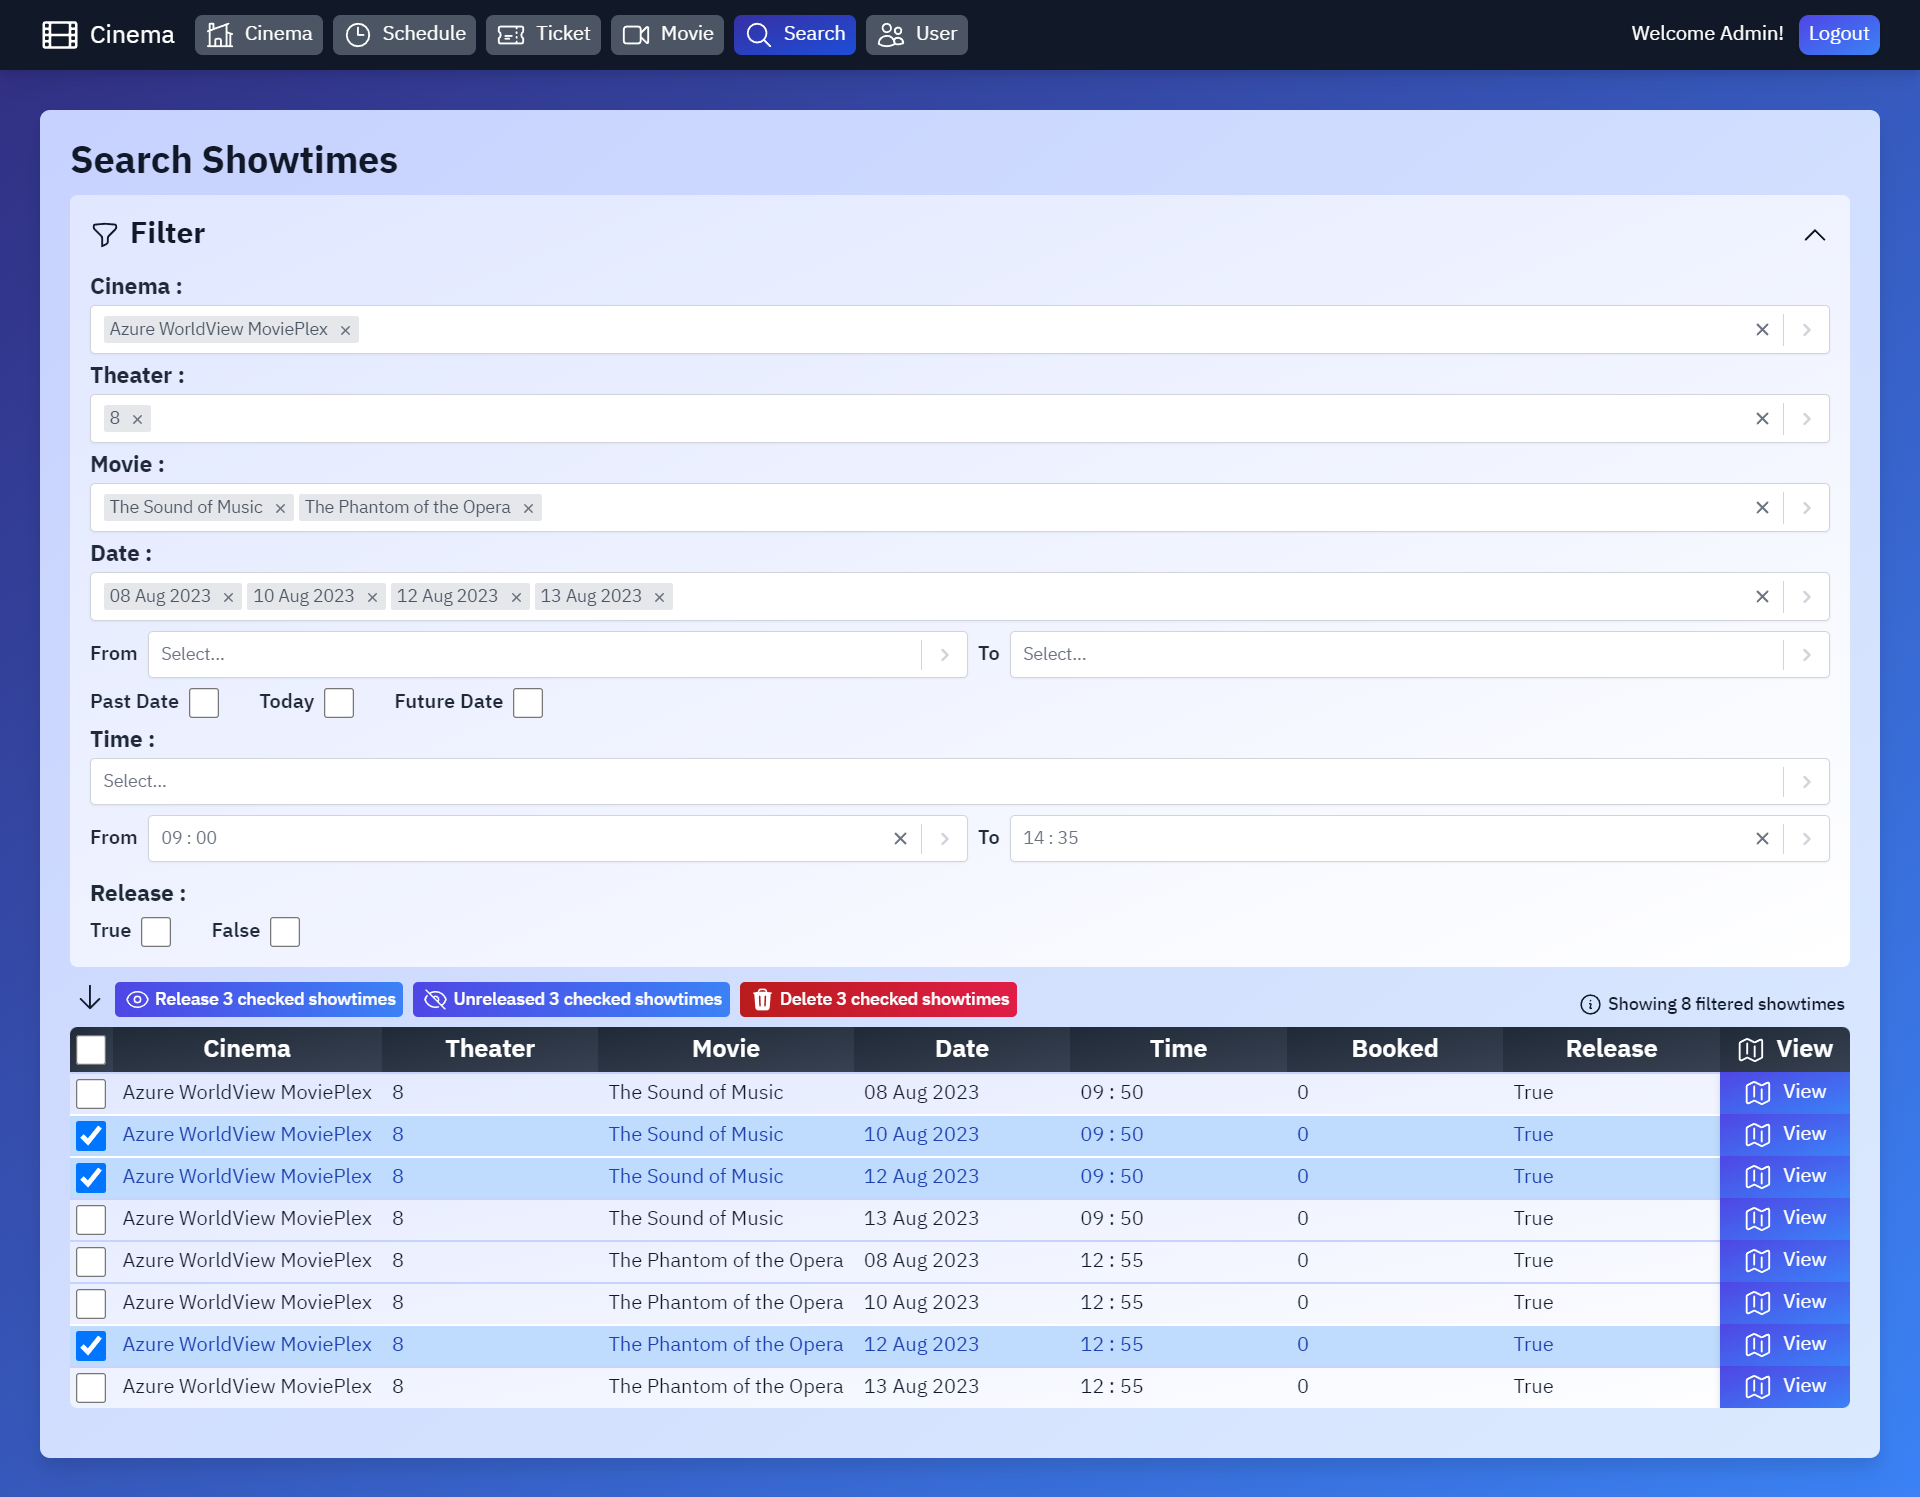
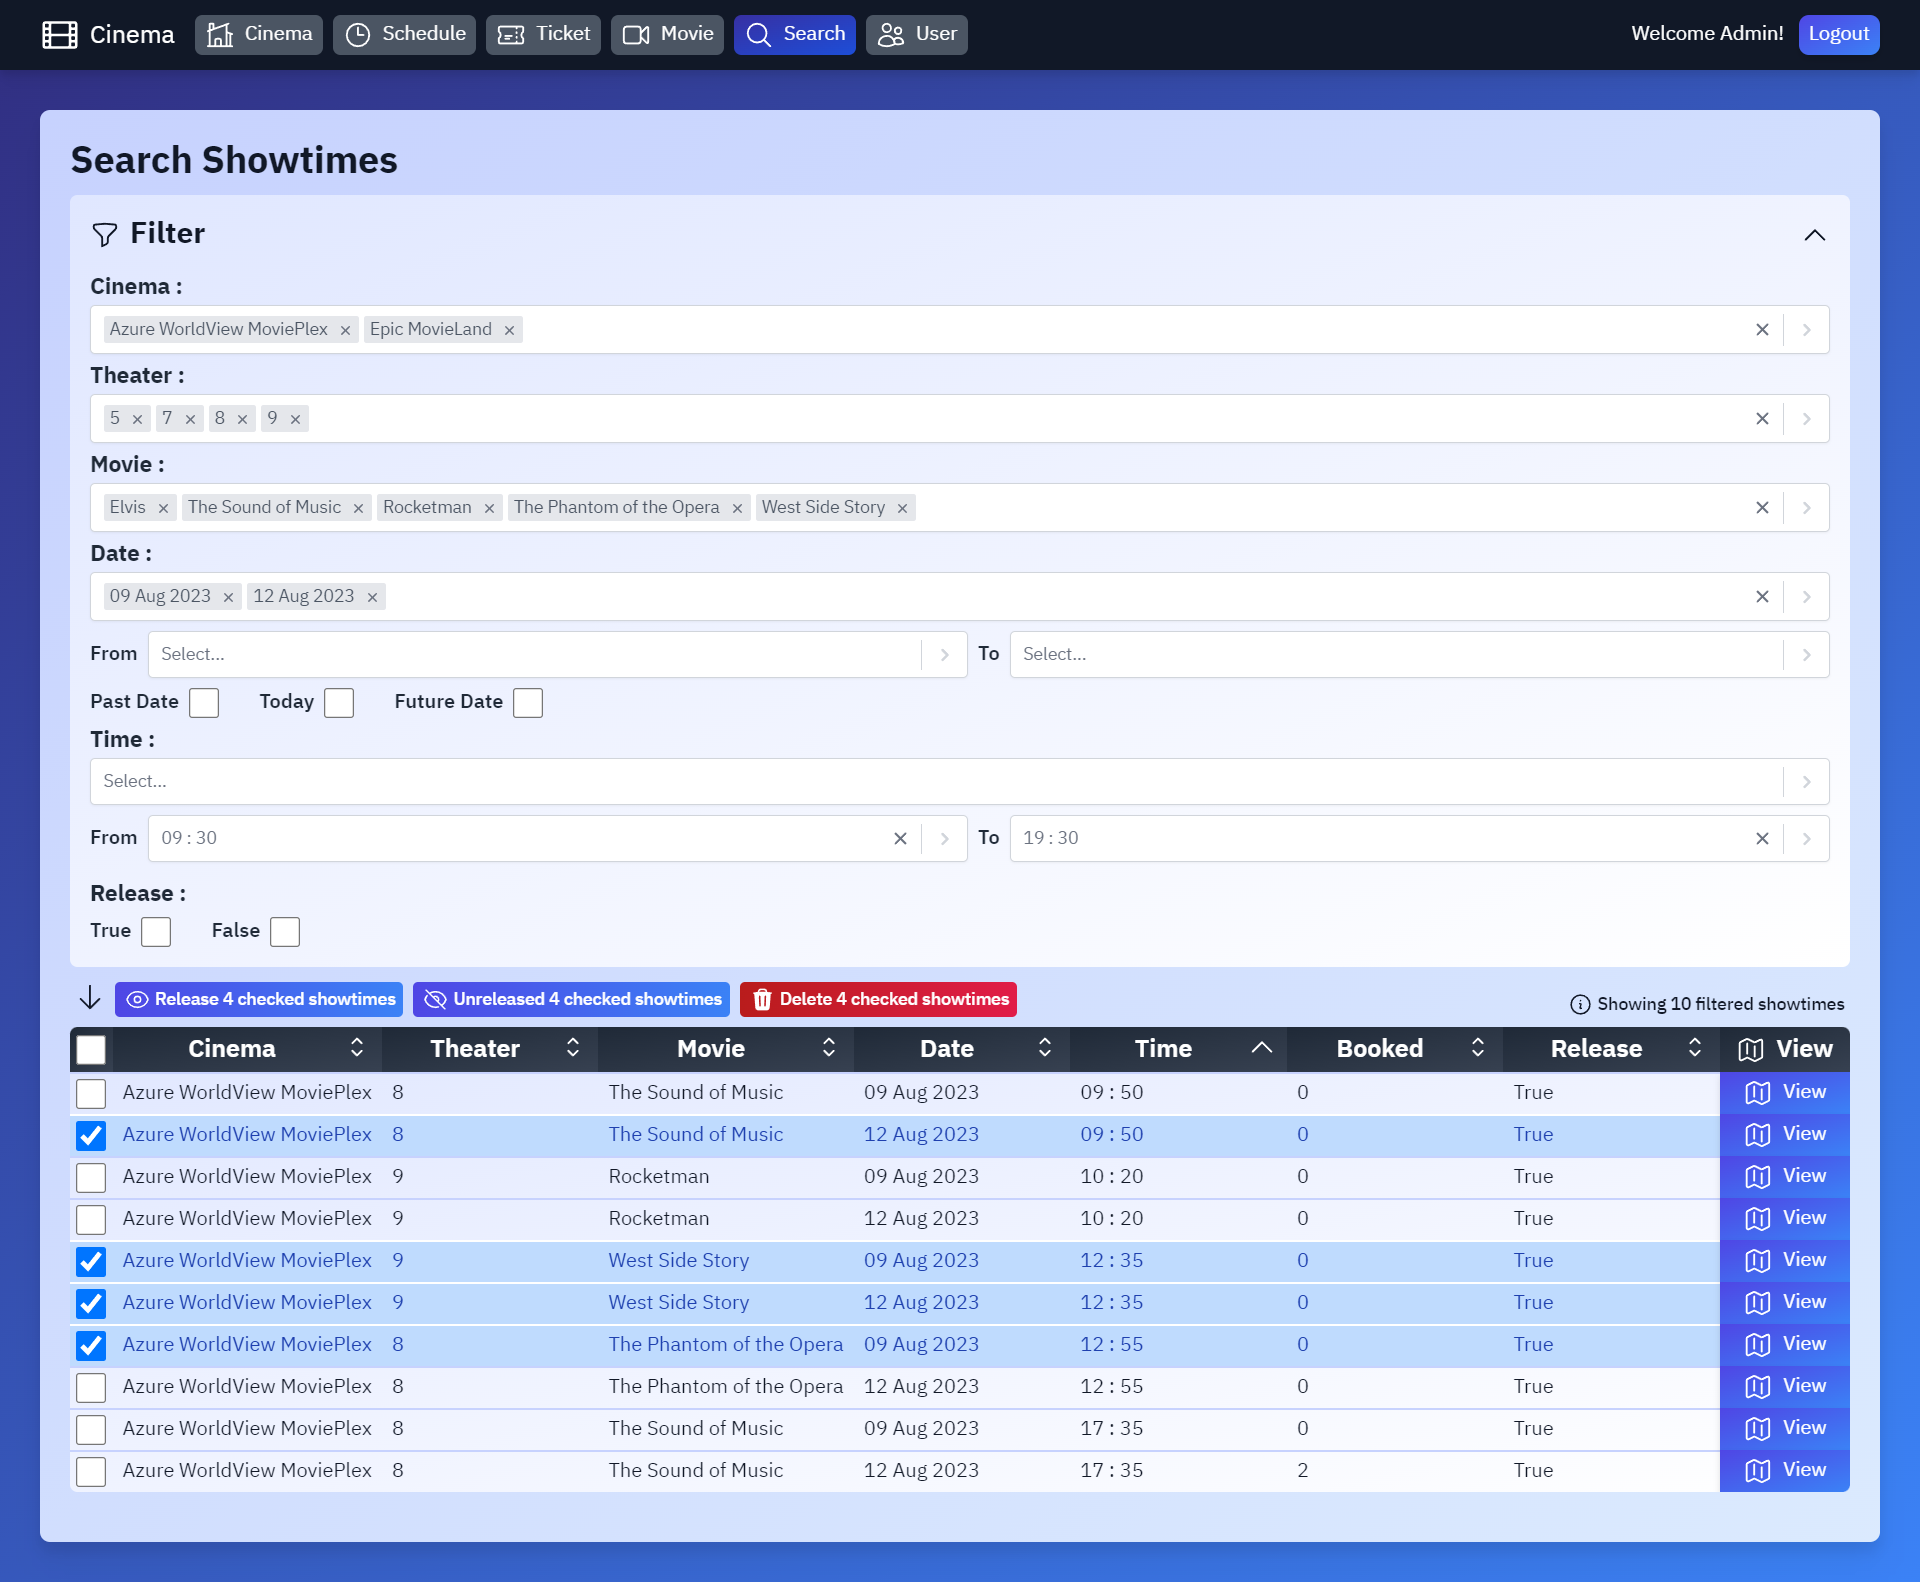
Update readme

diff --git a/README.md b/README.md
@@ -82,7 +82,7 @@ There are 3 roles on this website with corresponding permissions:
 |-------------|-------------|
 |👀 Viewer (Not logged in)  | **1. View released showtimes by choosing from** <br> &emsp;- Movie in home page <br>  &emsp;- Cinema's theater in cinema page <br> &emsp;- Cinema's schedule in schedule page <br> **2. View released showtimes for today and the future** <br> **3. View seats for released showtimes on the showtime page**|
 |👤 User   | **1. All Viewer permissions** <br> **2. Purchase tickets on the showtime page** <br> **3. View purchased tickets on the ticket page**|
-|👑 Admin   | **1. All User permissions** <br> **2. View all showtimes for any date** <br> **3. Manage cinemas** <br> **4. Manage theaters** <br> &emsp;- View theater's row, column, seats information <br> **5. Manage showtimes** <br> &emsp;- Search & filter showtimes <br> &emsp;- View details of booked seats <br> **6. Manage movies** <br> **7. Manage user & admin**|
+|👑 Admin   | **1. All User permissions** <br> **2. View all showtimes for any date** <br> **3. Manage cinemas** <br> **4. Manage theaters** <br> &emsp;- View theater's row, column, seats information <br> **5. Manage showtimes** <br> &emsp;- Search & filter & sort showtimes <br> &emsp;- View details of booked seats <br> **6. Manage movies** <br> **7. Manage user & admin**|
 
 ### 👀 Viewer
 Viewer have access to these pages for viewing released showtimes.
@@ -308,7 +308,7 @@ Admin have all permission.
 
 <img src="./images/search1.png" width="600">
 
-1. Filter showtime and select to release / unreleased / delete them
+1. Filter & sort showtime and select to release / unreleased / delete them
 2. Click a "View" button to view seats
 
 <img src="./images/search2.png" width="600">
